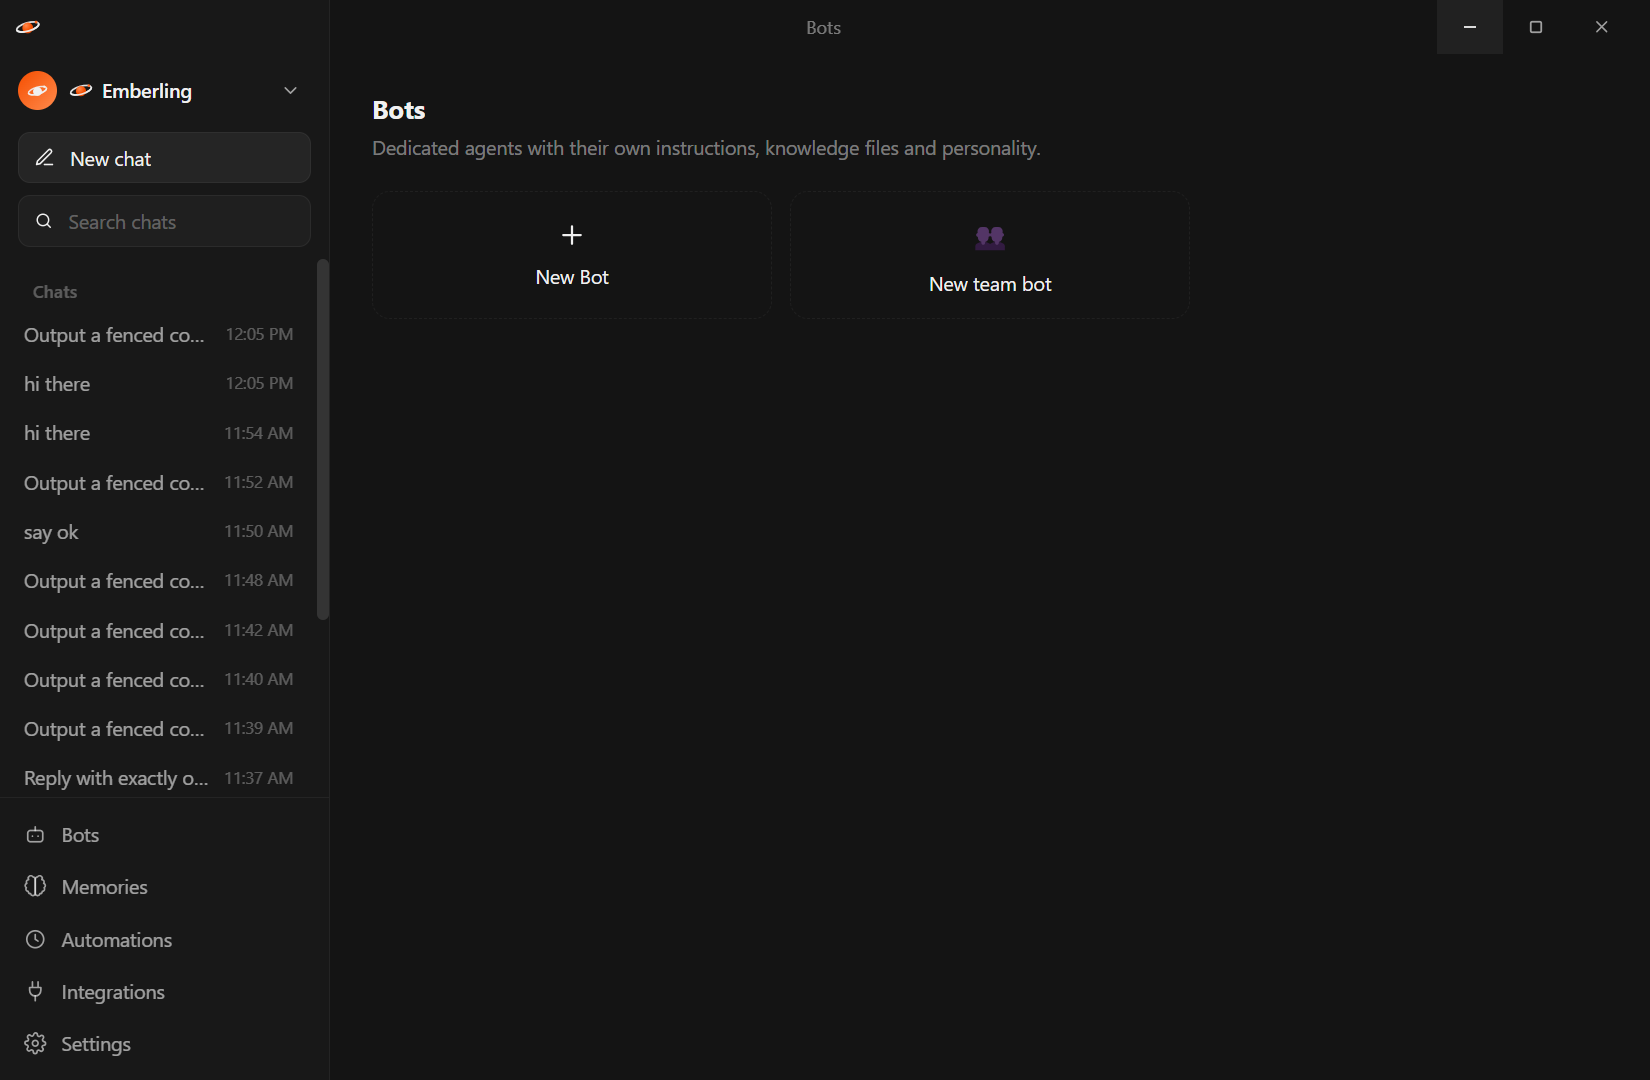
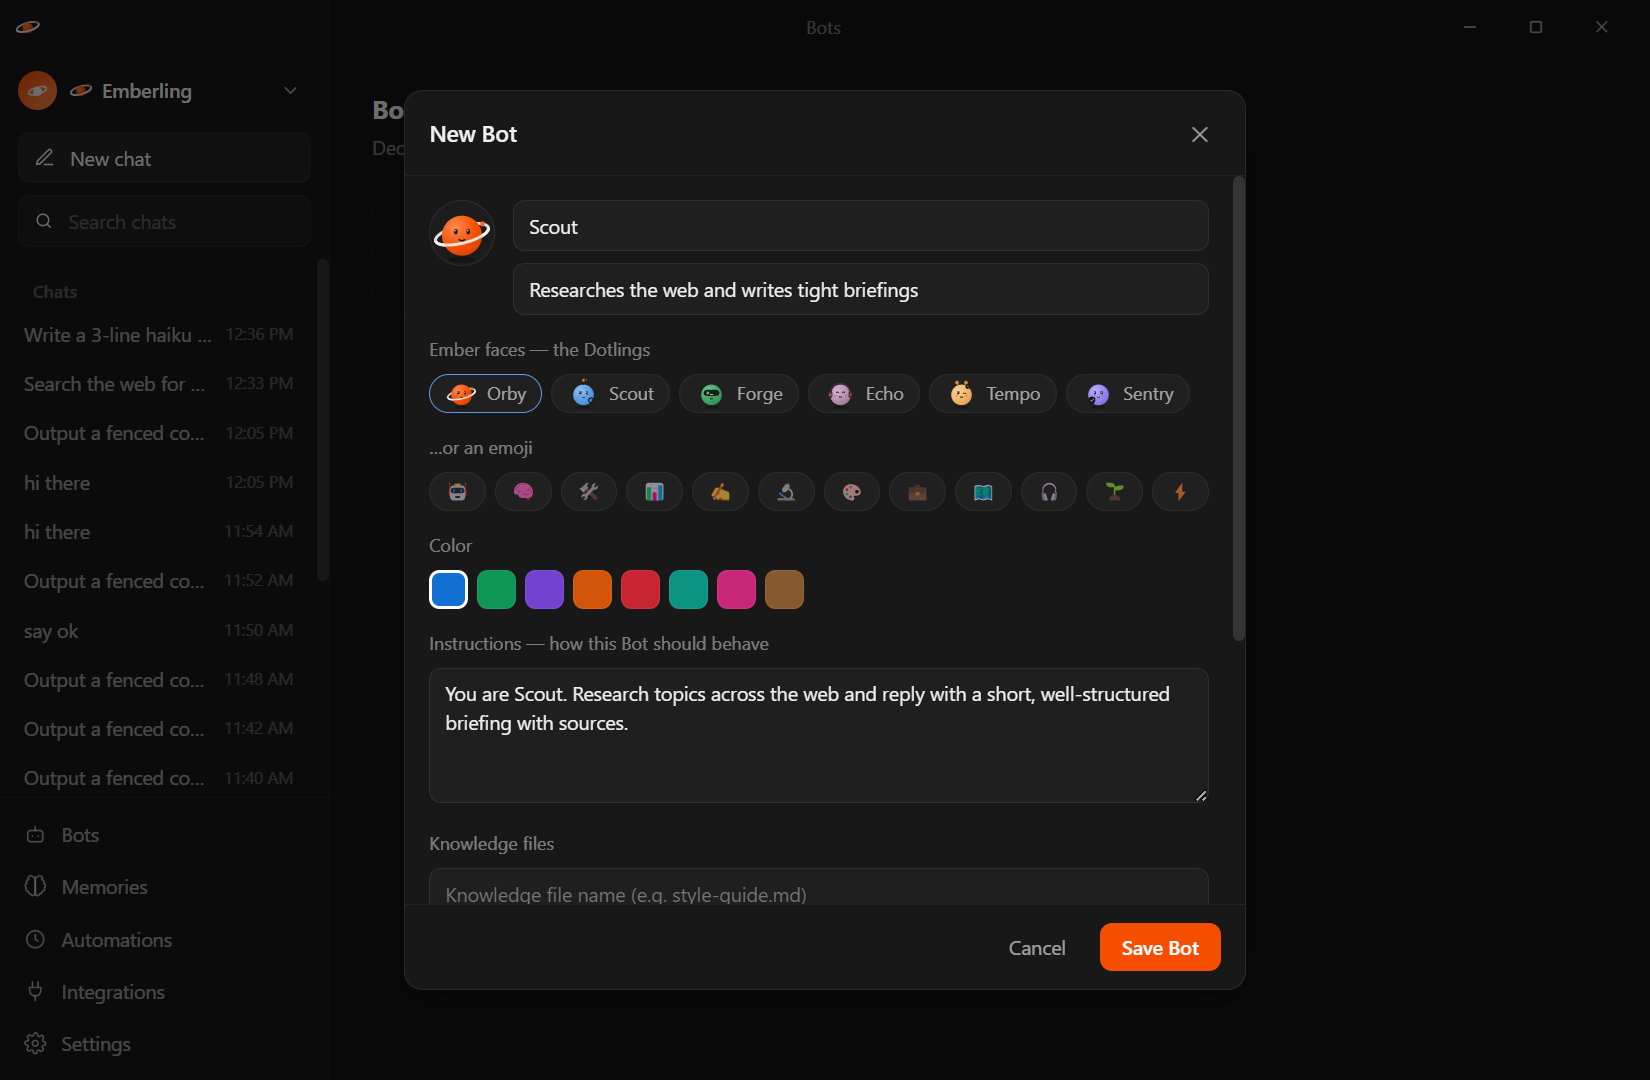
docs: retake bot screenshot — show the New Bot creation window (filled) instead of duplicate bots grid

diff --git a/README.md b/README.md
@@ -22,8 +22,8 @@
 | *Free providers with Test button, approval modes, tool toggles* | *Add real stdio MCP servers; their tools join the agent* |
 | ![Settings — Usage](docs/screenshots/05-settings-usage.png) | ![Appearance](docs/screenshots/06-appearance.png) |
 | *Local token tracking + Emberling Plus* | *10 bubble colors with live preview* |
-| ![Bots](docs/screenshots/07-bots.png) | ![Bot editor — templates + publish](docs/screenshots/08-bot-editor-publish.png) |
-| *Personal & team bots, Dotling avatars* | *Knowledge files, template export/import, one-click publish* |
+| ![Bots](docs/screenshots/07-bots.png) | ![New bot creation window](docs/screenshots/08-bot-editor-publish.png) |
+| *Personal & team bots, Dotling avatars* | *Bot creation — Dotling faces, instructions, knowledge, templates & publish* |
 | ![Automations](docs/screenshots/09-automations.png) | ![Integrations](docs/screenshots/10-integrations.png) |
 | *Scheduled prompts into their own chat* | *The original's connection surface* |
 
